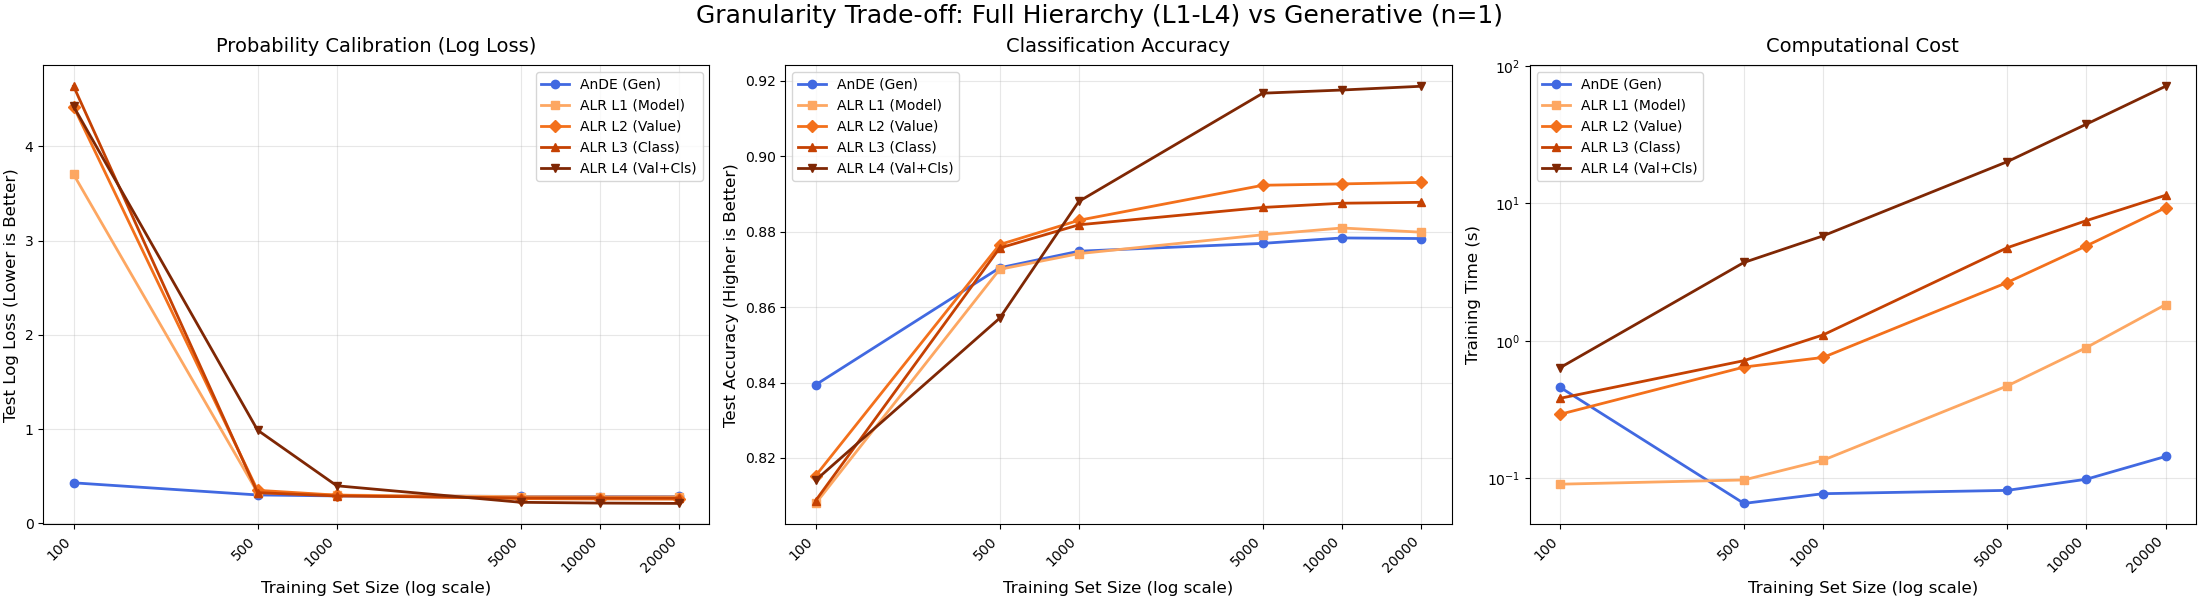
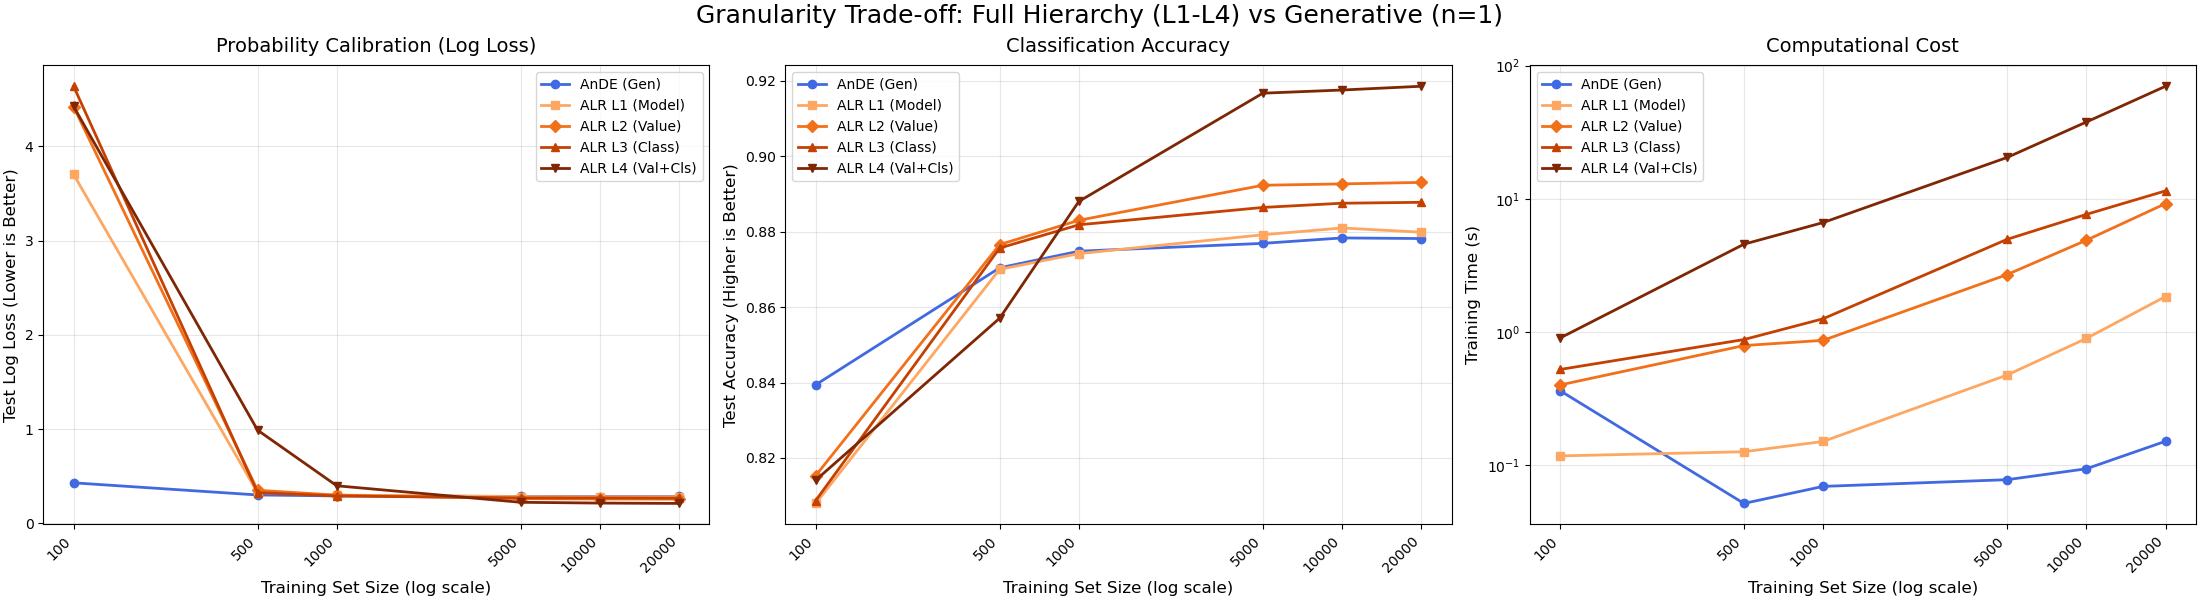
[ci skip] Merge pull request #9 from ptorrijos99/dependabot/github_actions/actions-424b7fb4bd
Bump the actions group across 1 directory with 3 updates 7359cba1fb6d0c932c3256f7eb1c888d7bf8b30a

diff --git a/auto_examples/sg_execution_times.html b/auto_examples/sg_execution_times.html
@@ -373,7 +373,7 @@
                   
   <section id="computation-times">
 <span id="sphx-glr-auto-examples-sg-execution-times"></span><h1>Computation times<a class="headerlink" href="#computation-times" title="Link to this heading">#</a></h1>
-<p><strong>15:51.339</strong> total execution time for 10 files <strong>from auto_examples</strong>:</p>
+<p><strong>16:02.593</strong> total execution time for 10 files <strong>from auto_examples</strong>:</p>
 <div class="docutils container">
 <style scoped>
 <link href="https://cdnjs.cloudflare.com/ajax/libs/twitter-bootstrap/5.3.0/css/bootstrap.min.css" rel="stylesheet" />
@@ -395,43 +395,43 @@ $(document).ready( function () {
 </thead>
 <tbody>
 <tr class="row-even"><td><p><a class="reference internal" href="09_plot_compare_ande_variants.html#sphx-glr-auto-examples-09-plot-compare-ande-variants-py"><span class="std std-ref">Data Efficiency &amp; Complexity: Generative vs. Hybrid Levels (L1-L4)</span></a> (<code class="docutils literal notranslate"><span class="pre">09_plot_compare_ande_variants.py</span></code>)</p></td>
-<td><p>15:48.018</p></td>
+<td><p>15:59.109</p></td>
 <td><p>0.0</p></td>
 </tr>
 <tr class="row-odd"><td><p><a class="reference internal" href="10_plot_compare_ande_interpretability.html#sphx-glr-auto-examples-10-plot-compare-ande-interpretability-py"><span class="std std-ref">Interpreting ALR: Automatic Feature Selection via Weights</span></a> (<code class="docutils literal notranslate"><span class="pre">10_plot_compare_ande_interpretability.py</span></code>)</p></td>
-<td><p>00:01.714</p></td>
+<td><p>00:01.741</p></td>
 <td><p>0.0</p></td>
 </tr>
 <tr class="row-even"><td><p><a class="reference internal" href="07_plot_a2de_xor_slice.html#sphx-glr-auto-examples-07-plot-a2de-xor-slice-py"><span class="std std-ref">Analytic View: 2D Slice of the 3D XOR Problem</span></a> (<code class="docutils literal notranslate"><span class="pre">07_plot_a2de_xor_slice.py</span></code>)</p></td>
-<td><p>00:00.340</p></td>
+<td><p>00:00.371</p></td>
 <td><p>0.0</p></td>
 </tr>
 <tr class="row-odd"><td><p><a class="reference internal" href="01_plot_gaussiannb_equivalence.html#sphx-glr-auto-examples-01-plot-gaussiannb-equivalence-py"><span class="std std-ref">MixedNB Equivalence with GaussianNB</span></a> (<code class="docutils literal notranslate"><span class="pre">01_plot_gaussiannb_equivalence.py</span></code>)</p></td>
-<td><p>00:00.258</p></td>
+<td><p>00:00.279</p></td>
 <td><p>0.0</p></td>
 </tr>
 <tr class="row-even"><td><p><a class="reference internal" href="04_plot_mixednb_vs_pipeline.html#sphx-glr-auto-examples-04-plot-mixednb-vs-pipeline-py"><span class="std std-ref">Handling Mixed Data Types with MixedNB</span></a> (<code class="docutils literal notranslate"><span class="pre">04_plot_mixednb_vs_pipeline.py</span></code>)</p></td>
-<td><p>00:00.239</p></td>
+<td><p>00:00.260</p></td>
 <td><p>0.0</p></td>
 </tr>
 <tr class="row-odd"><td><p><a class="reference internal" href="06_plot_aode_xor.html#sphx-glr-auto-examples-06-plot-aode-xor-py"><span class="std std-ref">Solving the XOR Problem: AnDE vs Naive Bayes</span></a> (<code class="docutils literal notranslate"><span class="pre">06_plot_aode_xor.py</span></code>)</p></td>
-<td><p>00:00.203</p></td>
+<td><p>00:00.226</p></td>
 <td><p>0.0</p></td>
 </tr>
 <tr class="row-even"><td><p><a class="reference internal" href="08_plot_a2de_xor_3d.html#sphx-glr-auto-examples-08-plot-a2de-xor-3d-py"><span class="std std-ref">3D Voxel-Cloud Visualization: XOR Structure</span></a> (<code class="docutils literal notranslate"><span class="pre">08_plot_a2de_xor_3d.py</span></code>)</p></td>
-<td><p>00:00.201</p></td>
+<td><p>00:00.212</p></td>
 <td><p>0.0</p></td>
 </tr>
 <tr class="row-odd"><td><p><a class="reference internal" href="05_plot_aode_mixed_demo.html#sphx-glr-auto-examples-05-plot-aode-mixed-demo-py"><span class="std std-ref">The Power of Mixed Data: Context-Dependent Logic</span></a> (<code class="docutils literal notranslate"><span class="pre">05_plot_aode_mixed_demo.py</span></code>)</p></td>
-<td><p>00:00.132</p></td>
+<td><p>00:00.139</p></td>
 <td><p>0.0</p></td>
 </tr>
 <tr class="row-even"><td><p><a class="reference internal" href="03_plot_categoricalnb_equivalence.html#sphx-glr-auto-examples-03-plot-categoricalnb-equivalence-py"><span class="std std-ref">MixedNB Equivalence with CategoricalNB</span></a> (<code class="docutils literal notranslate"><span class="pre">03_plot_categoricalnb_equivalence.py</span></code>)</p></td>
-<td><p>00:00.123</p></td>
+<td><p>00:00.135</p></td>
 <td><p>0.0</p></td>
 </tr>
 <tr class="row-odd"><td><p><a class="reference internal" href="02_plot_bernoullinb_equivalence.html#sphx-glr-auto-examples-02-plot-bernoullinb-equivalence-py"><span class="std std-ref">MixedNB Equivalence with BernoulliNB</span></a> (<code class="docutils literal notranslate"><span class="pre">02_plot_bernoullinb_equivalence.py</span></code>)</p></td>
-<td><p>00:00.111</p></td>
+<td><p>00:00.120</p></td>
 <td><p>0.0</p></td>
 </tr>
 </tbody>

diff --git a/sg_execution_times.html b/sg_execution_times.html
@@ -373,7 +373,7 @@
                   
   <section id="computation-times">
 <span id="sphx-glr-sg-execution-times"></span><h1>Computation times<a class="headerlink" href="#computation-times" title="Link to this heading">#</a></h1>
-<p><strong>15:51.339</strong> total execution time for 10 files <strong>from all galleries</strong>:</p>
+<p><strong>16:02.593</strong> total execution time for 10 files <strong>from all galleries</strong>:</p>
 <div class="docutils container">
 <style scoped>
 <link href="https://cdnjs.cloudflare.com/ajax/libs/twitter-bootstrap/5.3.0/css/bootstrap.min.css" rel="stylesheet" />
@@ -395,43 +395,43 @@ $(document).ready( function () {
 </thead>
 <tbody>
 <tr class="row-even"><td><p><a class="reference internal" href="auto_examples/09_plot_compare_ande_variants.html#sphx-glr-auto-examples-09-plot-compare-ande-variants-py"><span class="std std-ref">Data Efficiency &amp; Complexity: Generative vs. Hybrid Levels (L1-L4)</span></a> (<code class="docutils literal notranslate"><span class="pre">../examples/09_plot_compare_ande_variants.py</span></code>)</p></td>
-<td><p>15:48.018</p></td>
+<td><p>15:59.109</p></td>
 <td><p>0.0</p></td>
 </tr>
 <tr class="row-odd"><td><p><a class="reference internal" href="auto_examples/10_plot_compare_ande_interpretability.html#sphx-glr-auto-examples-10-plot-compare-ande-interpretability-py"><span class="std std-ref">Interpreting ALR: Automatic Feature Selection via Weights</span></a> (<code class="docutils literal notranslate"><span class="pre">../examples/10_plot_compare_ande_interpretability.py</span></code>)</p></td>
-<td><p>00:01.714</p></td>
+<td><p>00:01.741</p></td>
 <td><p>0.0</p></td>
 </tr>
 <tr class="row-even"><td><p><a class="reference internal" href="auto_examples/07_plot_a2de_xor_slice.html#sphx-glr-auto-examples-07-plot-a2de-xor-slice-py"><span class="std std-ref">Analytic View: 2D Slice of the 3D XOR Problem</span></a> (<code class="docutils literal notranslate"><span class="pre">../examples/07_plot_a2de_xor_slice.py</span></code>)</p></td>
-<td><p>00:00.340</p></td>
+<td><p>00:00.371</p></td>
 <td><p>0.0</p></td>
 </tr>
 <tr class="row-odd"><td><p><a class="reference internal" href="auto_examples/01_plot_gaussiannb_equivalence.html#sphx-glr-auto-examples-01-plot-gaussiannb-equivalence-py"><span class="std std-ref">MixedNB Equivalence with GaussianNB</span></a> (<code class="docutils literal notranslate"><span class="pre">../examples/01_plot_gaussiannb_equivalence.py</span></code>)</p></td>
-<td><p>00:00.258</p></td>
+<td><p>00:00.279</p></td>
 <td><p>0.0</p></td>
 </tr>
 <tr class="row-even"><td><p><a class="reference internal" href="auto_examples/04_plot_mixednb_vs_pipeline.html#sphx-glr-auto-examples-04-plot-mixednb-vs-pipeline-py"><span class="std std-ref">Handling Mixed Data Types with MixedNB</span></a> (<code class="docutils literal notranslate"><span class="pre">../examples/04_plot_mixednb_vs_pipeline.py</span></code>)</p></td>
-<td><p>00:00.239</p></td>
+<td><p>00:00.260</p></td>
 <td><p>0.0</p></td>
 </tr>
 <tr class="row-odd"><td><p><a class="reference internal" href="auto_examples/06_plot_aode_xor.html#sphx-glr-auto-examples-06-plot-aode-xor-py"><span class="std std-ref">Solving the XOR Problem: AnDE vs Naive Bayes</span></a> (<code class="docutils literal notranslate"><span class="pre">../examples/06_plot_aode_xor.py</span></code>)</p></td>
-<td><p>00:00.203</p></td>
+<td><p>00:00.226</p></td>
 <td><p>0.0</p></td>
 </tr>
 <tr class="row-even"><td><p><a class="reference internal" href="auto_examples/08_plot_a2de_xor_3d.html#sphx-glr-auto-examples-08-plot-a2de-xor-3d-py"><span class="std std-ref">3D Voxel-Cloud Visualization: XOR Structure</span></a> (<code class="docutils literal notranslate"><span class="pre">../examples/08_plot_a2de_xor_3d.py</span></code>)</p></td>
-<td><p>00:00.201</p></td>
+<td><p>00:00.212</p></td>
 <td><p>0.0</p></td>
 </tr>
 <tr class="row-odd"><td><p><a class="reference internal" href="auto_examples/05_plot_aode_mixed_demo.html#sphx-glr-auto-examples-05-plot-aode-mixed-demo-py"><span class="std std-ref">The Power of Mixed Data: Context-Dependent Logic</span></a> (<code class="docutils literal notranslate"><span class="pre">../examples/05_plot_aode_mixed_demo.py</span></code>)</p></td>
-<td><p>00:00.132</p></td>
+<td><p>00:00.139</p></td>
 <td><p>0.0</p></td>
 </tr>
 <tr class="row-even"><td><p><a class="reference internal" href="auto_examples/03_plot_categoricalnb_equivalence.html#sphx-glr-auto-examples-03-plot-categoricalnb-equivalence-py"><span class="std std-ref">MixedNB Equivalence with CategoricalNB</span></a> (<code class="docutils literal notranslate"><span class="pre">../examples/03_plot_categoricalnb_equivalence.py</span></code>)</p></td>
-<td><p>00:00.123</p></td>
+<td><p>00:00.135</p></td>
 <td><p>0.0</p></td>
 </tr>
 <tr class="row-odd"><td><p><a class="reference internal" href="auto_examples/02_plot_bernoullinb_equivalence.html#sphx-glr-auto-examples-02-plot-bernoullinb-equivalence-py"><span class="std std-ref">MixedNB Equivalence with BernoulliNB</span></a> (<code class="docutils literal notranslate"><span class="pre">../examples/02_plot_bernoullinb_equivalence.py</span></code>)</p></td>
-<td><p>00:00.111</p></td>
+<td><p>00:00.120</p></td>
 <td><p>0.0</p></td>
 </tr>
 </tbody>

diff --git a/auto_examples/01_plot_gaussiannb_equivalence.html b/auto_examples/01_plot_gaussiannb_equivalence.html
@@ -511,7 +511,7 @@ dataset are all-close.</p>
 <a href="https://matplotlib.org/stable/api/_as_gen/matplotlib.pyplot.show.html#matplotlib.pyplot.show" title="matplotlib.pyplot.show" class="sphx-glr-backref-module-matplotlib-pyplot sphx-glr-backref-type-py-function"><span class="n">plt</span><span class="o">.</span><span class="n">show</span></a><span class="p">()</span>
 </pre></div>
 </div>
-<p class="sphx-glr-timing"><strong>Total running time of the script:</strong> (0 minutes 0.258 seconds)</p>
+<p class="sphx-glr-timing"><strong>Total running time of the script:</strong> (0 minutes 0.279 seconds)</p>
 <div class="sphx-glr-footer sphx-glr-footer-example docutils container" id="sphx-glr-download-auto-examples-01-plot-gaussiannb-equivalence-py">
 <div class="sphx-glr-download sphx-glr-download-jupyter docutils container">
 <p><a class="reference download internal" download="" href="../_downloads/50ac26187f57d59b430be2a6507ec4d5/01_plot_gaussiannb_equivalence.ipynb"><code class="xref download docutils literal notranslate"><span class="pre">Download</span> <span class="pre">Jupyter</span> <span class="pre">notebook:</span> <span class="pre">01_plot_gaussiannb_equivalence.ipynb</span></code></a></p>

diff --git a/auto_examples/02_plot_bernoullinb_equivalence.html b/auto_examples/02_plot_bernoullinb_equivalence.html
@@ -531,7 +531,7 @@ dataset are all-close.</p>
 <a href="https://matplotlib.org/stable/api/_as_gen/matplotlib.pyplot.show.html#matplotlib.pyplot.show" title="matplotlib.pyplot.show" class="sphx-glr-backref-module-matplotlib-pyplot sphx-glr-backref-type-py-function"><span class="n">plt</span><span class="o">.</span><span class="n">show</span></a><span class="p">()</span>
 </pre></div>
 </div>
-<p class="sphx-glr-timing"><strong>Total running time of the script:</strong> (0 minutes 0.111 seconds)</p>
+<p class="sphx-glr-timing"><strong>Total running time of the script:</strong> (0 minutes 0.120 seconds)</p>
 <div class="sphx-glr-footer sphx-glr-footer-example docutils container" id="sphx-glr-download-auto-examples-02-plot-bernoullinb-equivalence-py">
 <div class="sphx-glr-download sphx-glr-download-jupyter docutils container">
 <p><a class="reference download internal" download="" href="../_downloads/e9f4ce65f5b2f0371d2dc680d3798721/02_plot_bernoullinb_equivalence.ipynb"><code class="xref download docutils literal notranslate"><span class="pre">Download</span> <span class="pre">Jupyter</span> <span class="pre">notebook:</span> <span class="pre">02_plot_bernoullinb_equivalence.ipynb</span></code></a></p>

diff --git a/auto_examples/03_plot_categoricalnb_equivalence.html b/auto_examples/03_plot_categoricalnb_equivalence.html
@@ -536,7 +536,7 @@ dataset are all-close.</p>
 <a href="https://matplotlib.org/stable/api/_as_gen/matplotlib.pyplot.show.html#matplotlib.pyplot.show" title="matplotlib.pyplot.show" class="sphx-glr-backref-module-matplotlib-pyplot sphx-glr-backref-type-py-function"><span class="n">plt</span><span class="o">.</span><span class="n">show</span></a><span class="p">()</span>
 </pre></div>
 </div>
-<p class="sphx-glr-timing"><strong>Total running time of the script:</strong> (0 minutes 0.123 seconds)</p>
+<p class="sphx-glr-timing"><strong>Total running time of the script:</strong> (0 minutes 0.135 seconds)</p>
 <div class="sphx-glr-footer sphx-glr-footer-example docutils container" id="sphx-glr-download-auto-examples-03-plot-categoricalnb-equivalence-py">
 <div class="sphx-glr-download sphx-glr-download-jupyter docutils container">
 <p><a class="reference download internal" download="" href="../_downloads/00b2f84cc1022caf137b5f9bf85b5a7f/03_plot_categoricalnb_equivalence.ipynb"><code class="xref download docutils literal notranslate"><span class="pre">Download</span> <span class="pre">Jupyter</span> <span class="pre">notebook:</span> <span class="pre">03_plot_categoricalnb_equivalence.ipynb</span></code></a></p>

diff --git a/auto_examples/04_plot_mixednb_vs_pipeline.html b/auto_examples/04_plot_mixednb_vs_pipeline.html
@@ -596,7 +596,7 @@ Matches the data generation process. (Acc: ~0.920).</p></li>
 <a href="https://matplotlib.org/stable/api/_as_gen/matplotlib.pyplot.show.html#matplotlib.pyplot.show" title="matplotlib.pyplot.show" class="sphx-glr-backref-module-matplotlib-pyplot sphx-glr-backref-type-py-function"><span class="n">plt</span><span class="o">.</span><span class="n">show</span></a><span class="p">()</span>
 </pre></div>
 </div>
-<p class="sphx-glr-timing"><strong>Total running time of the script:</strong> (0 minutes 0.239 seconds)</p>
+<p class="sphx-glr-timing"><strong>Total running time of the script:</strong> (0 minutes 0.260 seconds)</p>
 <div class="sphx-glr-footer sphx-glr-footer-example docutils container" id="sphx-glr-download-auto-examples-04-plot-mixednb-vs-pipeline-py">
 <div class="sphx-glr-download sphx-glr-download-jupyter docutils container">
 <p><a class="reference download internal" download="" href="../_downloads/5204dba96016a5865820642ba9f186c9/04_plot_mixednb_vs_pipeline.ipynb"><code class="xref download docutils literal notranslate"><span class="pre">Download</span> <span class="pre">Jupyter</span> <span class="pre">notebook:</span> <span class="pre">04_plot_mixednb_vs_pipeline.ipynb</span></code></a></p>

diff --git a/auto_examples/05_plot_aode_mixed_demo.html b/auto_examples/05_plot_aode_mixed_demo.html
@@ -568,7 +568,7 @@ changes completely depending on the mode.</p>
 <a href="https://matplotlib.org/stable/api/_as_gen/matplotlib.pyplot.show.html#matplotlib.pyplot.show" title="matplotlib.pyplot.show" class="sphx-glr-backref-module-matplotlib-pyplot sphx-glr-backref-type-py-function"><span class="n">plt</span><span class="o">.</span><span class="n">show</span></a><span class="p">()</span>
 </pre></div>
 </div>
-<p class="sphx-glr-timing"><strong>Total running time of the script:</strong> (0 minutes 0.132 seconds)</p>
+<p class="sphx-glr-timing"><strong>Total running time of the script:</strong> (0 minutes 0.139 seconds)</p>
 <div class="sphx-glr-footer sphx-glr-footer-example docutils container" id="sphx-glr-download-auto-examples-05-plot-aode-mixed-demo-py">
 <div class="sphx-glr-download sphx-glr-download-jupyter docutils container">
 <p><a class="reference download internal" download="" href="../_downloads/1c2630588179545e8c0b15891782aad8/05_plot_aode_mixed_demo.ipynb"><code class="xref download docutils literal notranslate"><span class="pre">Download</span> <span class="pre">Jupyter</span> <span class="pre">notebook:</span> <span class="pre">05_plot_aode_mixed_demo.ipynb</span></code></a></p>

diff --git a/auto_examples/06_plot_aode_xor.html b/auto_examples/06_plot_aode_xor.html
@@ -523,7 +523,7 @@ As shown in the plot, AnDE successfully captures the XOR structure.</p>
 <a href="https://matplotlib.org/stable/api/_as_gen/matplotlib.pyplot.show.html#matplotlib.pyplot.show" title="matplotlib.pyplot.show" class="sphx-glr-backref-module-matplotlib-pyplot sphx-glr-backref-type-py-function"><span class="n">plt</span><span class="o">.</span><span class="n">show</span></a><span class="p">()</span>
 </pre></div>
 </div>
-<p class="sphx-glr-timing"><strong>Total running time of the script:</strong> (0 minutes 0.203 seconds)</p>
+<p class="sphx-glr-timing"><strong>Total running time of the script:</strong> (0 minutes 0.226 seconds)</p>
 <div class="sphx-glr-footer sphx-glr-footer-example docutils container" id="sphx-glr-download-auto-examples-06-plot-aode-xor-py">
 <div class="sphx-glr-download sphx-glr-download-jupyter docutils container">
 <p><a class="reference download internal" download="" href="../_downloads/96a7d4f11d7792f949e26ae9dac9121f/06_plot_aode_xor.ipynb"><code class="xref download docutils literal notranslate"><span class="pre">Download</span> <span class="pre">Jupyter</span> <span class="pre">notebook:</span> <span class="pre">06_plot_aode_xor.ipynb</span></code></a></p>

diff --git a/auto_examples/07_plot_a2de_xor_slice.html b/auto_examples/07_plot_a2de_xor_slice.html
@@ -516,7 +516,7 @@ sharp boundaries. Accuracy ~0.965 (Solved).</p></li>
 <a href="https://matplotlib.org/stable/api/_as_gen/matplotlib.pyplot.show.html#matplotlib.pyplot.show" title="matplotlib.pyplot.show" class="sphx-glr-backref-module-matplotlib-pyplot sphx-glr-backref-type-py-function"><span class="n">plt</span><span class="o">.</span><span class="n">show</span></a><span class="p">()</span>
 </pre></div>
 </div>
-<p class="sphx-glr-timing"><strong>Total running time of the script:</strong> (0 minutes 0.340 seconds)</p>
+<p class="sphx-glr-timing"><strong>Total running time of the script:</strong> (0 minutes 0.371 seconds)</p>
 <div class="sphx-glr-footer sphx-glr-footer-example docutils container" id="sphx-glr-download-auto-examples-07-plot-a2de-xor-slice-py">
 <div class="sphx-glr-download sphx-glr-download-jupyter docutils container">
 <p><a class="reference download internal" download="" href="../_downloads/eae9308ffcf6dc91e180db73ab45de6b/07_plot_a2de_xor_slice.ipynb"><code class="xref download docutils literal notranslate"><span class="pre">Download</span> <span class="pre">Jupyter</span> <span class="pre">notebook:</span> <span class="pre">07_plot_a2de_xor_slice.ipynb</span></code></a></p>

diff --git a/auto_examples/08_plot_a2de_xor_3d.html b/auto_examples/08_plot_a2de_xor_3d.html
@@ -549,7 +549,7 @@ Generating volumetric grid...
 <a href="https://matplotlib.org/stable/api/_as_gen/matplotlib.pyplot.show.html#matplotlib.pyplot.show" title="matplotlib.pyplot.show" class="sphx-glr-backref-module-matplotlib-pyplot sphx-glr-backref-type-py-function"><span class="n">plt</span><span class="o">.</span><span class="n">show</span></a><span class="p">()</span>
 </pre></div>
 </div>
-<p class="sphx-glr-timing"><strong>Total running time of the script:</strong> (0 minutes 0.201 seconds)</p>
+<p class="sphx-glr-timing"><strong>Total running time of the script:</strong> (0 minutes 0.212 seconds)</p>
 <div class="sphx-glr-footer sphx-glr-footer-example docutils container" id="sphx-glr-download-auto-examples-08-plot-a2de-xor-3d-py">
 <div class="sphx-glr-download sphx-glr-download-jupyter docutils container">
 <p><a class="reference download internal" download="" href="../_downloads/bea786fddc0b9d753515283ddb0c4026/08_plot_a2de_xor_3d.ipynb"><code class="xref download docutils literal notranslate"><span class="pre">Download</span> <span class="pre">Jupyter</span> <span class="pre">notebook:</span> <span class="pre">08_plot_a2de_xor_3d.ipynb</span></code></a></p>

diff --git a/auto_examples/09_plot_compare_ande_variants.html b/auto_examples/09_plot_compare_ande_variants.html
@@ -618,7 +618,7 @@ Seed 123, N=20000 done.
 <a href="https://matplotlib.org/stable/api/_as_gen/matplotlib.pyplot.show.html#matplotlib.pyplot.show" title="matplotlib.pyplot.show" class="sphx-glr-backref-module-matplotlib-pyplot sphx-glr-backref-type-py-function"><span class="n">plt</span><span class="o">.</span><span class="n">show</span></a><span class="p">()</span>
 </pre></div>
 </div>
-<p class="sphx-glr-timing"><strong>Total running time of the script:</strong> (15 minutes 48.018 seconds)</p>
+<p class="sphx-glr-timing"><strong>Total running time of the script:</strong> (15 minutes 59.109 seconds)</p>
 <div class="sphx-glr-footer sphx-glr-footer-example docutils container" id="sphx-glr-download-auto-examples-09-plot-compare-ande-variants-py">
 <div class="sphx-glr-download sphx-glr-download-jupyter docutils container">
 <p><a class="reference download internal" download="" href="../_downloads/bd452b38dcd30f28fe194ae785794a9e/09_plot_compare_ande_variants.ipynb"><code class="xref download docutils literal notranslate"><span class="pre">Download</span> <span class="pre">Jupyter</span> <span class="pre">notebook:</span> <span class="pre">09_plot_compare_ande_variants.ipynb</span></code></a></p>

diff --git a/auto_examples/10_plot_compare_ande_interpretability.html b/auto_examples/10_plot_compare_ande_interpretability.html
@@ -547,7 +547,7 @@ By ignoring noise, ALR achieves significantly lower Log Loss and higher Accuracy
 <a href="https://matplotlib.org/stable/api/_as_gen/matplotlib.pyplot.show.html#matplotlib.pyplot.show" title="matplotlib.pyplot.show" class="sphx-glr-backref-module-matplotlib-pyplot sphx-glr-backref-type-py-function"><span class="n">plt</span><span class="o">.</span><span class="n">show</span></a><span class="p">()</span>
 </pre></div>
 </div>
-<p class="sphx-glr-timing"><strong>Total running time of the script:</strong> (0 minutes 1.714 seconds)</p>
+<p class="sphx-glr-timing"><strong>Total running time of the script:</strong> (0 minutes 1.741 seconds)</p>
 <div class="sphx-glr-footer sphx-glr-footer-example docutils container" id="sphx-glr-download-auto-examples-10-plot-compare-ande-interpretability-py">
 <div class="sphx-glr-download sphx-glr-download-jupyter docutils container">
 <p><a class="reference download internal" download="" href="../_downloads/e95a27dd71ecd33214a7ce3ae605143f/10_plot_compare_ande_interpretability.ipynb"><code class="xref download docutils literal notranslate"><span class="pre">Download</span> <span class="pre">Jupyter</span> <span class="pre">notebook:</span> <span class="pre">10_plot_compare_ande_interpretability.ipynb</span></code></a></p>